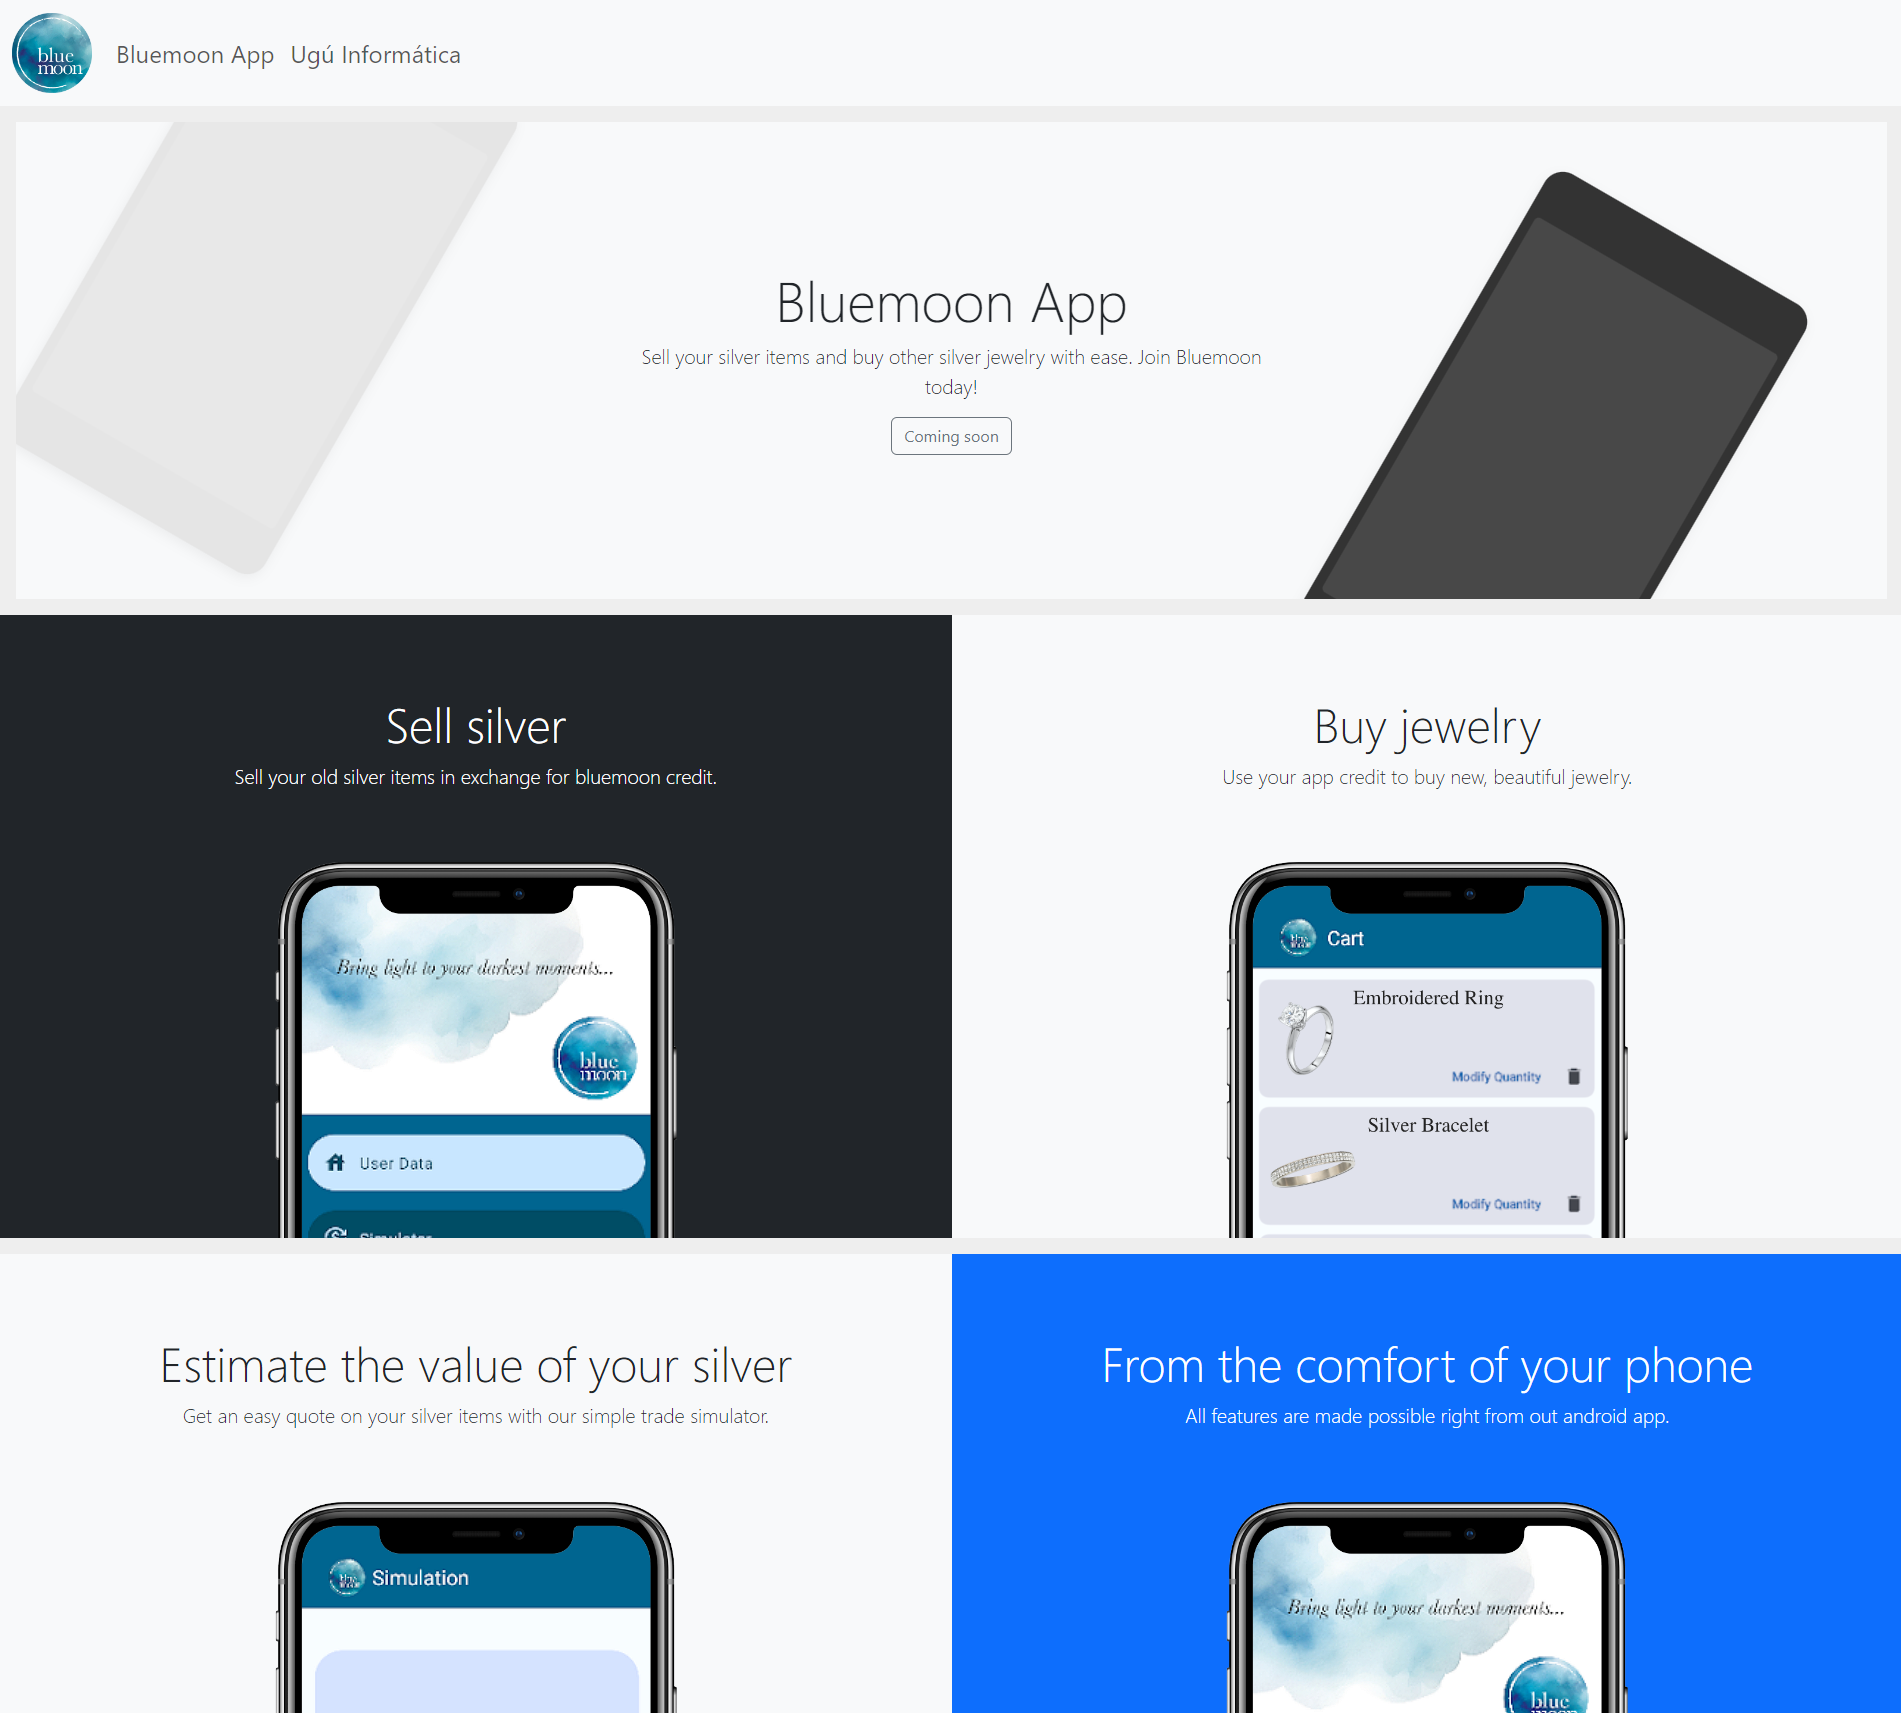
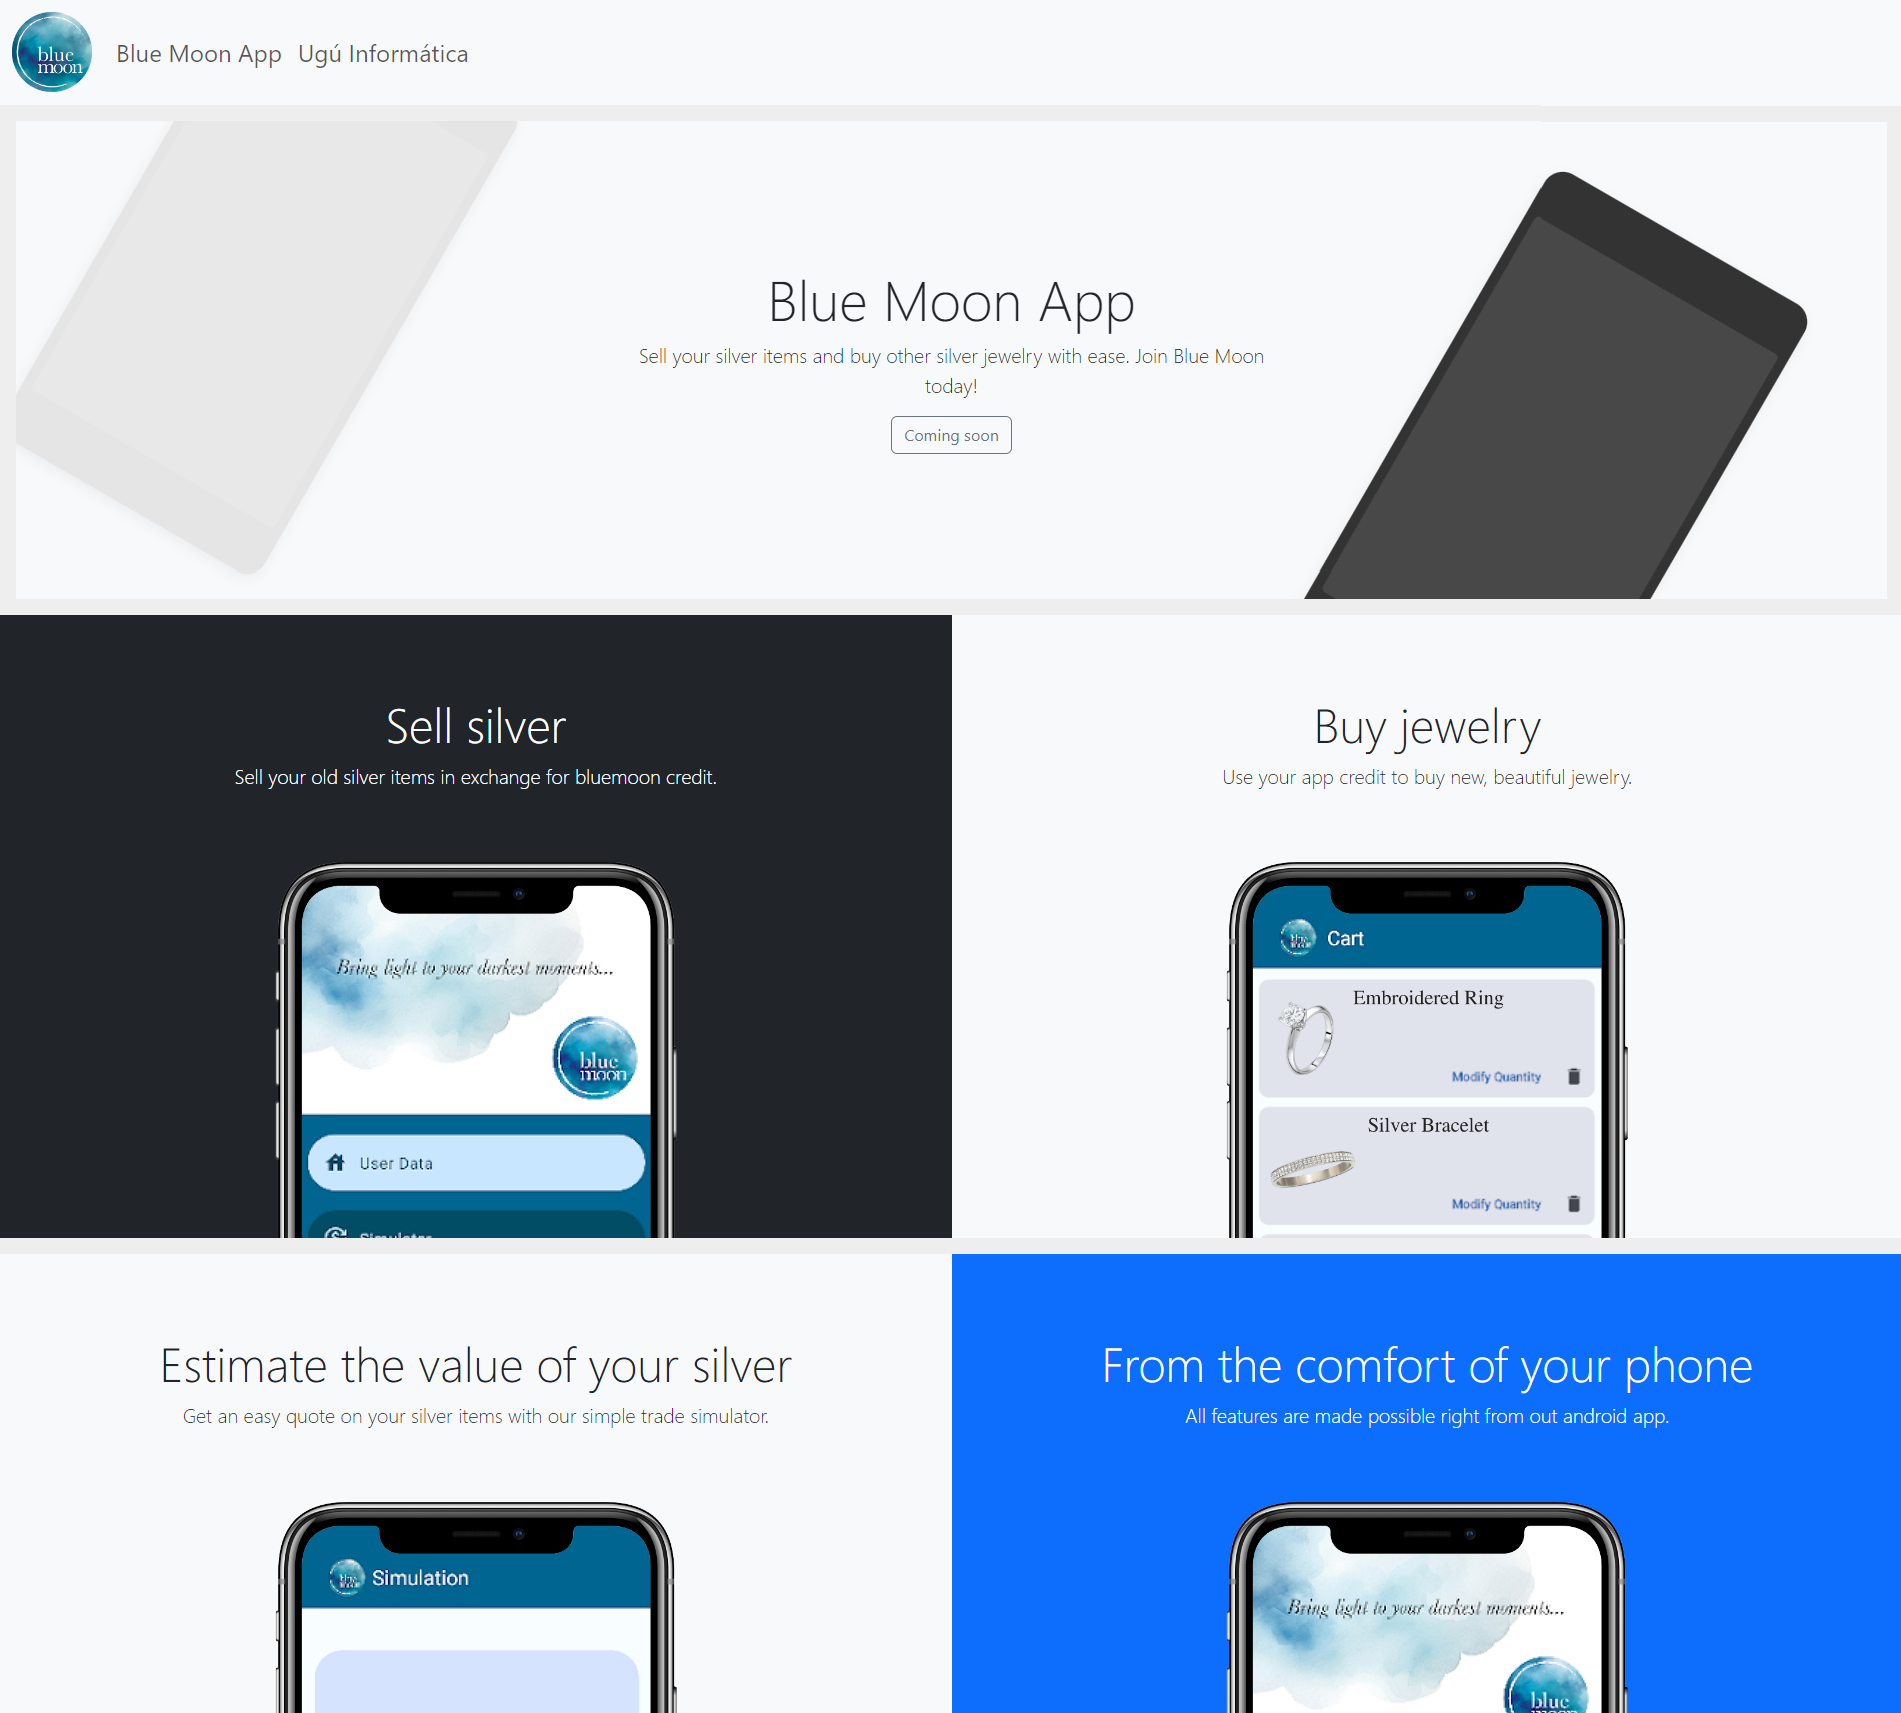
Blue Moon;

diff --git a/src/main/resources/templates/product/product.html b/src/main/resources/templates/product/product.html
@@ -8,7 +8,7 @@
     <link rel="stylesheet" href="https://cdn.jsdelivr.net/npm/bootstrap@5.3.2/dist/css/bootstrap.min.css" integrity="sha384-T3c6CoIi6uLrA9TneNEoa7RxnatzjcDSCmG1MXxSR1GAsXEV/Dwwykc2MPK8M2HN" crossorigin="anonymous">
     <link rel="icon" type="image/x-icon" th:href="@{/image/Bluemoon_FavIcon.png}">
     <link rel="stylesheet" th:href="@{/css/product.css}">
-    <title>Bluemoon - Android App</title>
+    <title>Blue Moon - Android App</title>
 </head>
 <body style="background-color: #eee;">
 
@@ -18,8 +18,8 @@
 <div>
     <div class="position-relative overflow-hidden p-3 p-md-5 m-md-3 text-center bg-light">
         <div class="col-md-5 p-lg-5 mx-auto my-5">
-            <h1 class="display-4 font-weight-normal">Bluemoon App</h1>
-            <p class="lead font-weight-normal">Sell your silver items and buy other silver jewelry with ease. Join Bluemoon today!</p>
+            <h1 class="display-4 font-weight-normal">Blue Moon App</h1>
+            <p class="lead font-weight-normal">Sell your silver items and buy other silver jewelry with ease. Join Blue Moon today!</p>
             <span class="btn btn-outline-secondary">Coming soon</span>
         </div>
         <div class="product-device box-shadow d-none d-md-block"></div>
@@ -30,7 +30,7 @@
         <div class="bg-dark mr-md-3 pt-3 px-3 pt-md-5 px-md-5 text-center text-white overflow-hidden">
             <div class="my-3 py-3">
                 <h2 class="display-5">Sell silver</h2>
-                <p class="lead">Sell your old silver items in exchange for bluemoon credit.</p>
+                <p class="lead">Sell your old silver items in exchange for Blue Moon credit.</p>
             </div>
             <img th:src="@{/image/app_menu.png}" alt="Your Image" class="mx-auto" style="width: 80%; max-width: 500px; max-height: 400px; object-fit: cover; object-position: top; border-radius: 21px 21px 0 0;">
         </div>

diff --git a/src/main/resources/templates/company/company.html b/src/main/resources/templates/company/company.html
@@ -8,7 +8,7 @@
     <link rel="stylesheet" href="https://cdn.jsdelivr.net/npm/bootstrap@5.3.2/dist/css/bootstrap.min.css" integrity="sha384-T3c6CoIi6uLrA9TneNEoa7RxnatzjcDSCmG1MXxSR1GAsXEV/Dwwykc2MPK8M2HN" crossorigin="anonymous">
     <link rel="icon" type="image/x-icon" th:href="@{/image/Bluemoon_FavIcon.png}">
     <link rel="stylesheet" th:href="@{/css/carousel.css}">
-    <title>Bluemoon - Ugú Informática</title>
+    <title>Blue Moon - Ugú Informática</title>
 </head>
 <body style="background-color: #eee;">
 
@@ -19,7 +19,7 @@
     <div class="position-relative overflow-hidden p-3 p-md-5 m-md-3 text-center bg-light">
         <div class="col-md-5 p-lg-5 mx-auto my-5">
             <h1 class="display-4 font-weight-normal">Ugú Informática</h1>
-            <p class="lead font-weight-normal">The developers behind Bluemoon. Making your apps a reality.</p>
+            <p class="lead font-weight-normal">The developers behind Blue Moon. Making your apps a reality.</p>
             <button class="btn btn-outline-secondary" onclick="scrollToBottom()">Contact Us</button>
             <script>
                 // Function to scroll to the bottom of the page

diff --git a/src/main/resources/templates/fragments/navbar.html b/src/main/resources/templates/fragments/navbar.html
@@ -3,7 +3,7 @@
         <div class="container-fluid">
             <!-- Brand/logo -->
             <a class="navbar-brand" href="/landing">
-                <img class="" th:src="@{/image/Bluemoon_Logo_Transparent.png}" style="width: 80px;" alt="Bluemoon">
+                <img class="" th:src="@{/image/Bluemoon_Logo_Transparent.png}" style="width: 80px;" alt="Blue Moon">
             </a>
 
             <!-- Toggle button for mobile view -->
@@ -17,7 +17,7 @@
                 <!-- Navigation Buttons -->
                 <ul class="navbar-nav">
                     <li class="nav-item">
-                        <a class="nav-link" href="/app" style="font-size: 18pt;">Bluemoon App</a>
+                        <a class="nav-link" href="/app" style="font-size: 18pt;">Blue Moon App</a>
                     </li>
                     <li class="nav-item">
                         <a class="nav-link" href="/uguinformatica" style="font-size: 18pt;">Ugú Informática</a>
